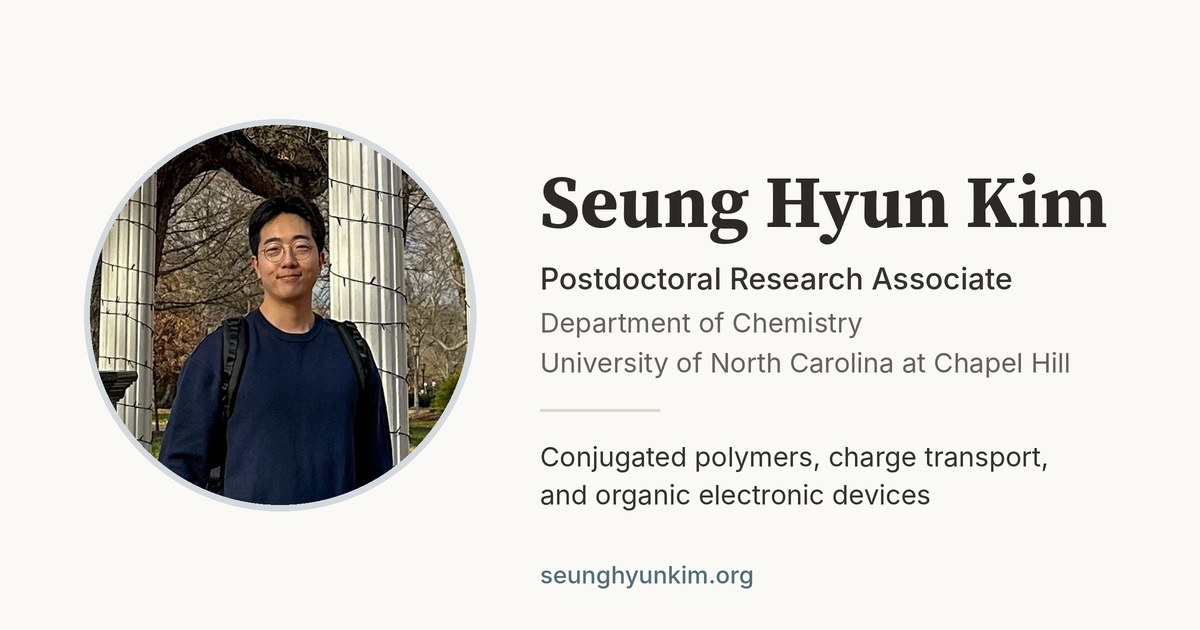
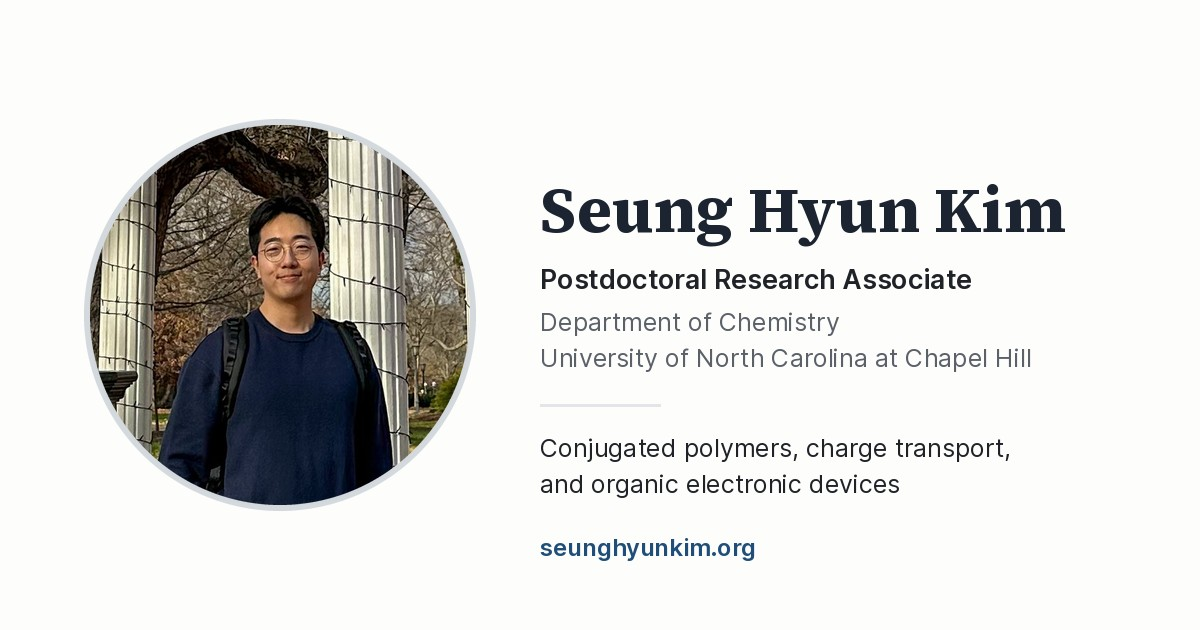
Visual refinements: sticky Experience menu, two-column Contact, compact awards, year headings
- Experience: section menu stays below the header while scrolling (desktop); Projects cards white with hairline border; Honors & Awards one line per award
- Contact: name and address left, email and profiles right
- Presentations: year headings, rebuilt after sort and filter changes
- sharing.jpg redrawn in the Ink blue palette

Claude-Session: https://claude.ai/code/session_01HmQUrmu4YKKCNGFdaADK96

diff --git a/assets/css/custom.css b/assets/css/custom.css
@@ -408,7 +408,7 @@ summary:focus-visible,input:focus-visible,select:focus-visible { outline: 3px so
 .academic-career-body li,.academic-teaching-entry li { margin-top:7px; font-size:.9375rem; line-height:1.75; }
 .academic-career-body li::marker,.academic-teaching-entry li::marker { color:#7a9cc0; }
 .academic-project-grid { display:grid; grid-template-columns:repeat(3,minmax(0,1fr)); gap:18px; }
-.academic-project-card { border:1px solid var(--academic-line); border-top:2px solid var(--academic-line); border-radius:4px; padding:20px 21px 22px; background:var(--academic-wash); }
+.academic-project-card { border:1px solid var(--academic-line); border-radius:4px; padding:20px 21px 22px; background:var(--academic-background); }
 .academic-project-date { display:block; margin-bottom:11px; color:var(--academic-muted); font-size:.75rem; font-weight:650; letter-spacing:.04em; }
 .academic-project-meta { margin:8px 0 12px; color:var(--academic-muted); font-size:.8125rem; font-weight:550; }
 .academic-project-card>p:last-child { margin:0; color:var(--academic-muted); font-size:.875rem; line-height:1.7; }
@@ -467,7 +467,7 @@ summary:focus-visible,input:focus-visible,select:focus-visible { outline: 3px so
 .academic-back-to-top:hover { border-color:var(--academic-link); }
 @media print { .academic-back-to-top { display:none; } }
 
-.academic-section-nav { display:flex; flex-wrap:wrap; gap:8px 22px; margin:0 0 28px; padding-bottom:16px; border-bottom:1px solid var(--academic-line); font-size:14px; }
+.academic-section-nav { display:flex; flex-wrap:wrap; gap:8px 22px; margin:0 0 28px; padding:12px 0 14px; border-bottom:1px solid var(--academic-line); font-size:14px; position:sticky; top:72px; z-index:15; background:var(--academic-background); }
 .academic-section-nav a { color:var(--academic-link); }
 .academic-record-section[id] { scroll-margin-top:90px; }
 .academic-no-results { padding:24px 0; }
@@ -496,3 +496,15 @@ summary:focus-visible,input:focus-visible,select:focus-visible { outline: 3px so
 .academic-research-overview .academic-featured-image + .academic-featured-image { margin-top: 14px; }
 .academic-illustration figcaption { font-size: 12px; color: var(--academic-muted); margin-top: 10px; }
 .academic-illustration-narrow .academic-featured-image { max-width: 280px; }
+/* Compact awards list and two-column Contact. */
+.academic-awards-list article { padding: 12px 0 13px; }
+.academic-awards-list article > div { display: flex; flex-wrap: wrap; align-items: baseline; gap: 2px 12px; }
+.academic-awards-list article > div p { margin: 0; }
+.academic-awards-list .academic-service-date { padding-top: 0; }
+.academic-contact-grid { display: grid; grid-template-columns: minmax(0, 1fr) minmax(0, 1fr); gap: 60px; align-items: start; max-width: 760px; }
+@media(max-width:640px) { .academic-contact-grid { grid-template-columns: 1fr; gap: 0; } }
+@media(max-width:760px) { .academic-section-nav { position: static; } }
+.academic-records .academic-record-section { scroll-margin-top: 130px; }
+/* Presentations: year headings between talks, rebuilt by presentation-index.js after sorting and filtering. */
+.academic-year-heading { font-family: var(--academic-serif); font-size: 20px; font-weight: 600; color: var(--academic-navy); margin: 26px 0 4px; padding-bottom: 6px; border-bottom: 1px solid var(--academic-line); }
+.academic-index-items > .academic-year-heading:first-child { margin-top: 14px; }

diff --git a/assets/js/presentation-index.js b/assets/js/presentation-index.js
@@ -10,6 +10,8 @@
     const q = query.value.trim().toLowerCase(), f = checked(formats), y = checked(years);
     const visible = items.filter(item => { const show = (!q || item.textContent.toLowerCase().includes(q)) && (!f.length || f.includes(item.dataset.format)) && (!y.length || y.includes(item.dataset.year)); item.hidden = !show; return show; });
     items.sort((a, b) => sort.value === 'oldest' ? a.dataset.date.localeCompare(b.dataset.date) : b.dataset.date.localeCompare(a.dataset.date)).forEach(item => list.append(item));
+    list.querySelectorAll('.academic-year-heading').forEach(h => h.remove());
+    let lastYear = ''; items.forEach(item => { if (item.hidden || item.dataset.year === lastYear) return; lastYear = item.dataset.year; const h = document.createElement('h3'); h.className = 'academic-year-heading'; h.textContent = lastYear; list.insertBefore(h, item); });
     root.querySelector('.academic-result-count').textContent = `${visible.length} of ${items.length} presentations`;
     root.querySelector('.academic-no-results').hidden = !!visible.length;
     root.querySelector('.academic-filter-count').textContent = f.length + y.length ? `· ${f.length + y.length} selected` : '';

diff --git a/layouts/presentations/list.html b/layouts/presentations/list.html
@@ -13,7 +13,7 @@
   <button type="button" class="academic-filter-reset">Reset filters</button></details></aside>
   <div><div class="academic-index-toolbar"><span class="academic-result-count" role="status" aria-live="polite">{{ len $talks }} of {{ len $talks }} presentations</span><label class="academic-sort" for="talk-sort">Sort<select id="talk-sort"><option value="newest">Newest first</option><option value="oldest">Oldest first</option></select></label></div>
   <div class="academic-index-items">
-  {{ range $talks }}{{ $d := time .Params.event_date }}
+  {{ $lastYear := "" }}{{ range $talks }}{{ $d := time .Params.event_date }}{{ if ne ($d.Format "2006") $lastYear }}{{ $lastYear = $d.Format "2006" }}<h3 class="academic-year-heading">{{ $lastYear }}</h3>{{ end }}
   <article class="academic-index-item" data-format="{{ .Params.format }}" data-year="{{ $d.Format "2006" }}" data-date="{{ $d.Format "2006-01-02" }}">
     <h2>{{ .Title }}</h2>
     <div class="academic-index-authors academic-authors">{{ .Params.authors | markdownify }}</div>

diff --git a/layouts/landing/single.html b/layouts/landing/single.html
@@ -53,7 +53,7 @@
     {{ with .Params.experience.awards }}
     <section class="academic-record-section" id="awards">
       <h2>Honors &amp; Awards</h2>
-      <div class="academic-service-list">
+      <div class="academic-service-list academic-awards-list">
         {{ range . }}
         <article>
           <div class="academic-service-date">{{ .dates }}</div>
@@ -113,9 +113,11 @@
     </section>
 
   {{ else }}
+    {{ if eq $pageName "contact" }}<div class="academic-contact-grid">{{ end }}
     {{ range .Params.sections }}
     <section class="academic-record-section">{{ if ne $pageName "contact" }}<h2>{{ .content.title }}</h2>{{ end }}<div class="academic-prose">{{ .content.text | markdownify }}</div></section>
     {{ end }}
+    {{ if eq $pageName "contact" }}</div>{{ end }}
   {{ end }}
 </main>
 {{ else }}{{ partial "landing_page.html" . }}{{ end }}

diff --git a/UPDATING.md b/UPDATING.md
@@ -24,4 +24,4 @@ Link previews use `assets/media/sharing.jpg` (1200×630). Regenerate it if the t
 
 Research and homepage illustrations are the owner's vector schematics from the 2026 MRS faculty-candidate poster, stored in `static/media/illustrations/` and placed through `featured_figure`, `research_question`, `research_figure` and `research[].figure` in `data/academic.yaml`. A theme without `figure` falls back to the first paper's ToC graphic. Do not publish poster panels with unpublished data or process conditions (for example the side-chain cleavage scheme or dark-current bars).
 
-Presentations are managed like publications: one folder per talk in `content/presentations/<YYYY-MM-short-name>/index.md` (create with `hugo new content presentations/2027-04-mrs-topic/index.md`, which uses `archetypes/presentations.md`). Fields: `title`, `authors` (Markdown, bold the owner), `event`, `location`, `event_date` (YYYY-MM-DD; use the 1st with `date_precision: month` when the day is unknown), and `format` (`oral` or `poster`). Related-paper links were removed at the owner's request (2026-11-25). `event_date` is used instead of Hugo's `date` so future talks are not hidden. Talks have no pages of their own (`cascade` in `content/presentations/_index.md`); the list, search, format/year filters and sort live in `layouts/presentations/list.html` and `assets/js/presentation-index.js`.
+Presentations are managed like publications: one folder per talk in `content/presentations/<YYYY-MM-short-name>/index.md` (create with `hugo new content presentations/2027-04-mrs-topic/index.md`, which uses `archetypes/presentations.md`). Fields: `title`, `authors` (Markdown, bold the owner), `event`, `location`, `event_date` (YYYY-MM-DD; use the 1st with `date_precision: month` when the day is unknown), and `format` (`oral` or `poster`). Related-paper links were removed at the owner's request (2026-11-25). `event_date` is used instead of Hugo's `date` so future talks are not hidden. Talks have no pages of their own (`cascade` in `content/presentations/_index.md`); the list, search, format/year filters and sort live in `layouts/presentations/list.html` and `assets/js/presentation-index.js`. The list shows a year heading before each year's talks; the headings are rebuilt in the browser whenever sorting or filters change.

diff --git a/content/contact.md b/content/contact.md
@@ -19,8 +19,12 @@ sections:
         Chapel Hill, NC 27599-3290  
         USA  
         [Open in Google Maps](https://www.google.com/maps/search/?api=1&query=Kenan+Laboratories+125+South+Road+Chapel+Hill+NC)
-
-        **Email:** [shyunkim@unc.edu](mailto:shyunkim@unc.edu)
+  - block: markdown
+    content:
+      title: Contact
+      text: |-
+        **Email**  
+        [shyunkim@unc.edu](mailto:shyunkim@unc.edu)
 
         **Profiles**  
         [Google Scholar](https://scholar.google.com/citations?user=LhXDN0UAAAAJ&hl=en) ·
